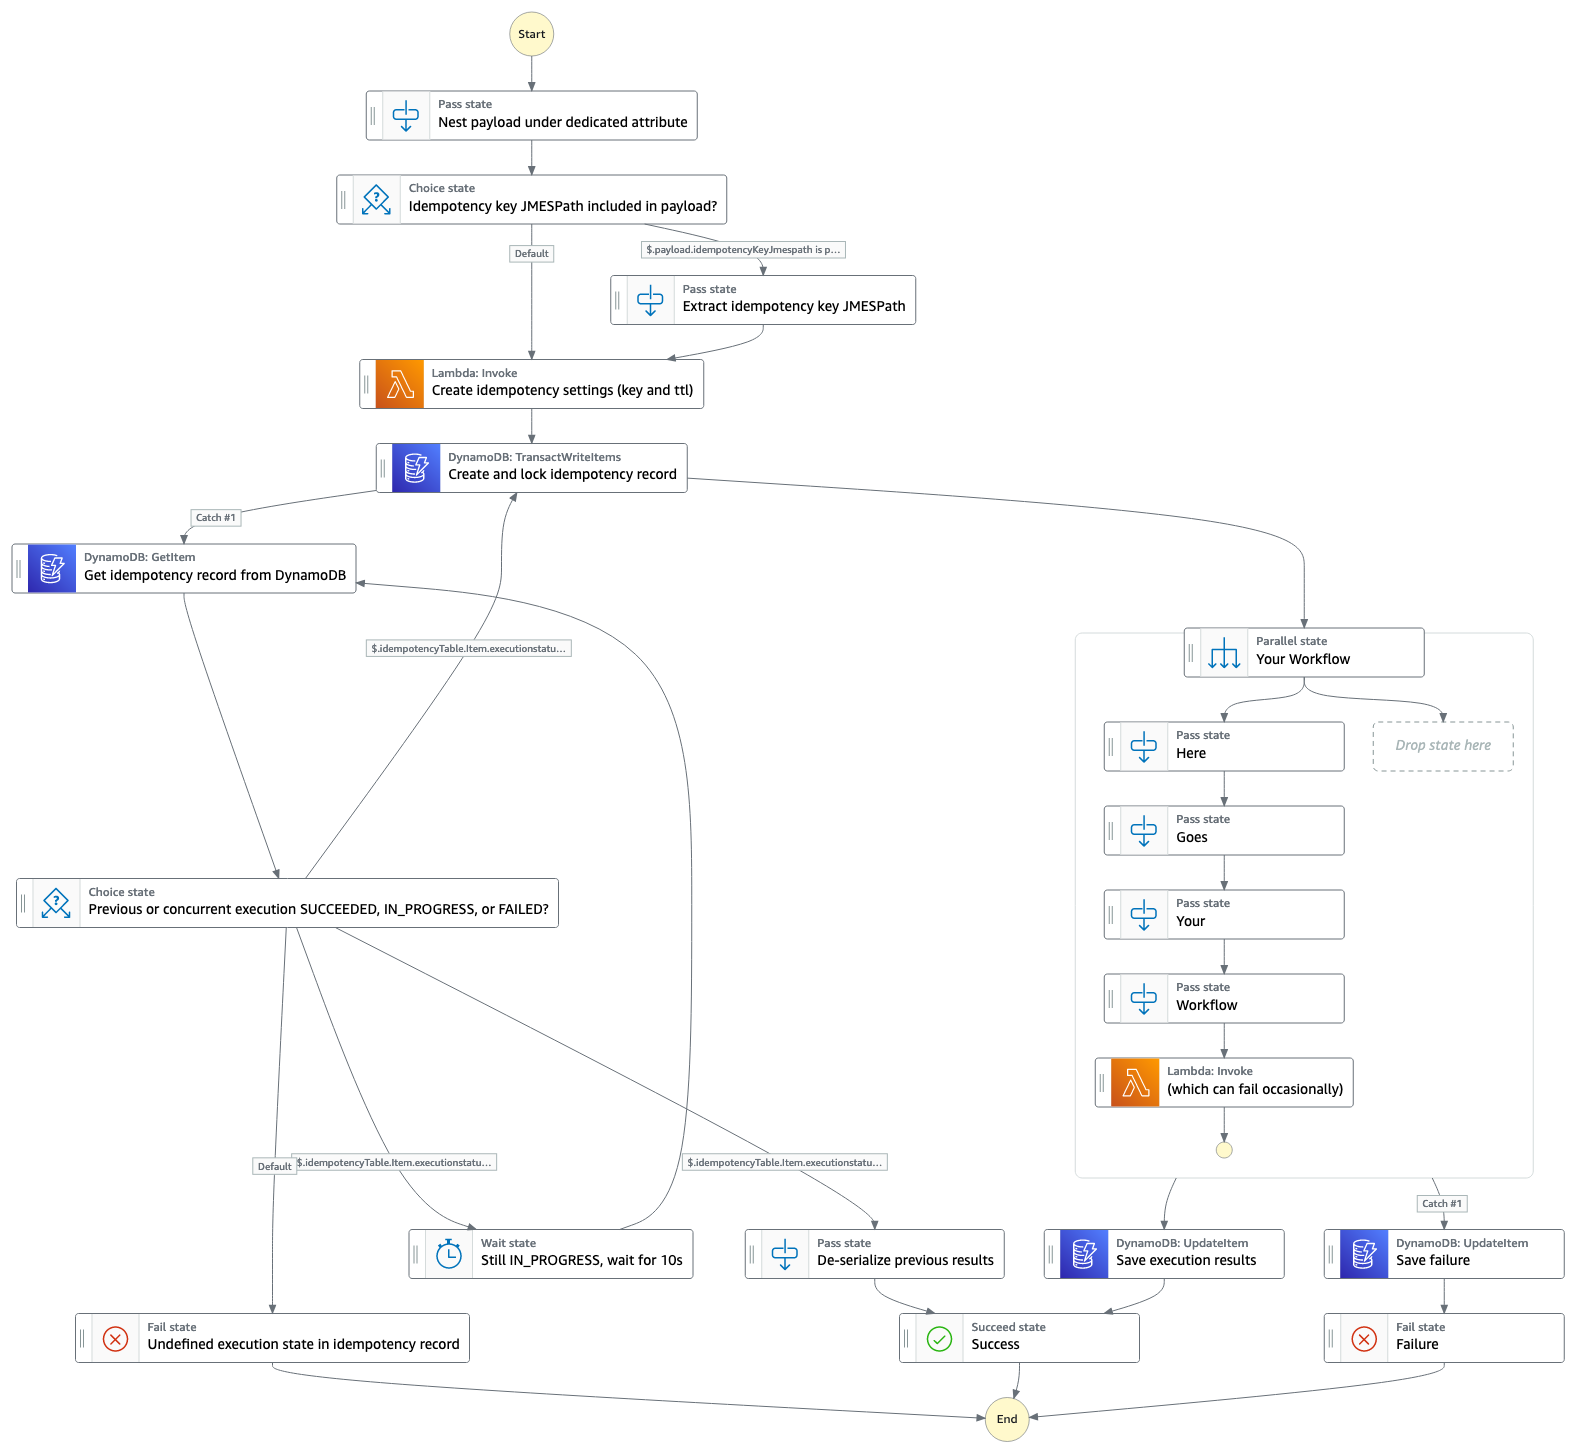
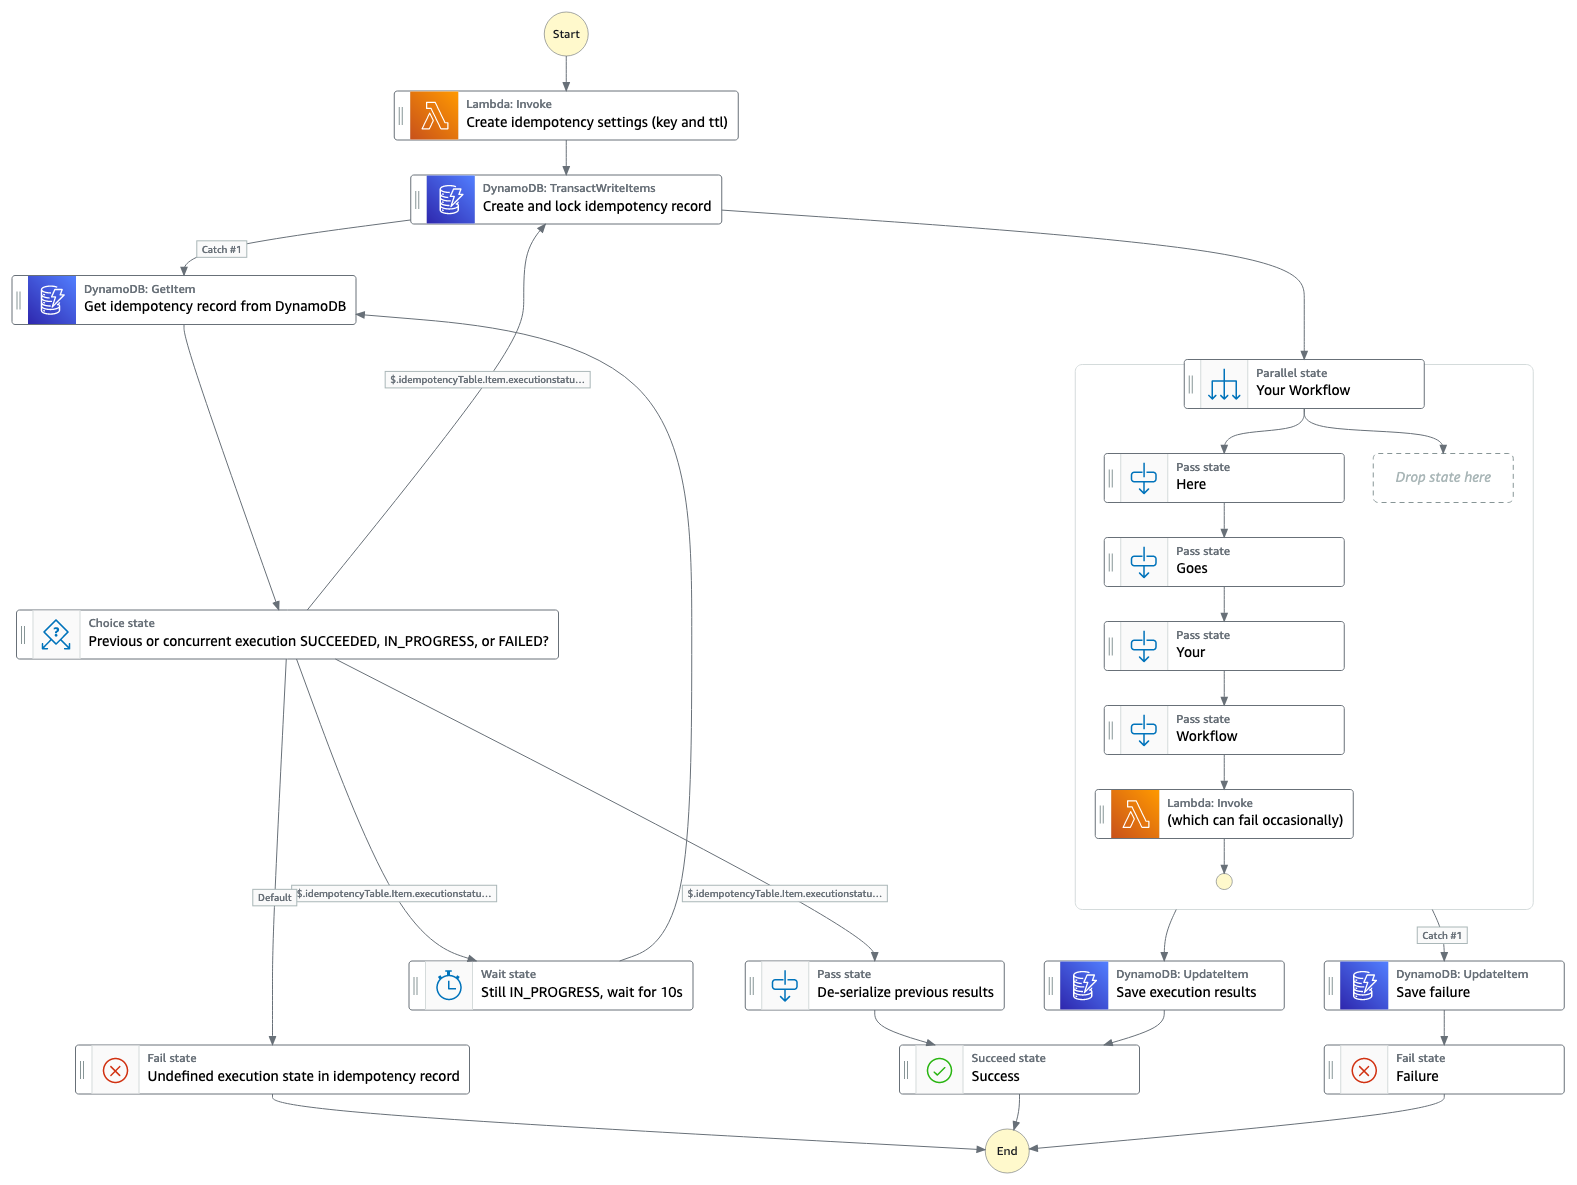
Add retries for all API calls; Consolidate idempotency config stuff

diff --git a/idempotent-workflow/lib/idempotent-workflow.ts b/idempotent-workflow/lib/idempotent-workflow.ts
@@ -16,17 +16,15 @@ export interface IdempotentWorkflowProps {
   workflowSteps: sfn.IChainable & sfn.INextable;
   idempotencyHashFunction?: lambda.IFunction;
   idempotencyTable?: ddb.ITable;
-  express?: boolean,
-  ttlMinutes?: number
+  express?: boolean;
+  ttlMinutes?: number;
 }
 
-const IDEMPOTENCY_KEY_JMESPATH_JSON_PATH = "$.payload.idempotencyKeyJmespath";
-const IDEMPOTENCY_SETTINGS_JSON_PATH = "$.idempotencySettings";
+const IDEMPOTENCY_SETTINGS_JSON_PATH = "$.idempotencyConfig";
 const IDEMPOTENCY_KEY_JSON_PATH = `${IDEMPOTENCY_SETTINGS_JSON_PATH}.idempotencyKey`;
 const IDEMPOTENCY_TTL_JSON_PATH = `${IDEMPOTENCY_SETTINGS_JSON_PATH}.ttl`;
 
 export class IdempotentWorkflow extends Construct {
-
   constructor(scope: Construct, id: string, props: IdempotentWorkflowProps) {
     super(scope, id);
 
@@ -50,7 +48,10 @@ export class IdempotentWorkflow extends Construct {
               ),
             ],
             environment: {
-              IDEMPOTENCY_RECORD_TTL_MINUTES: props.ttlMinutes !== undefined ? props.ttlMinutes.toFixed(0).toString() : "1440", // 24h
+              IDEMPOTENCY_RECORD_TTL_MINUTES:
+                props.ttlMinutes !== undefined
+                  ? props.ttlMinutes.toFixed(0).toString()
+                  : "1440", // 24h
               IDEMPOTENCY_JMESPATH_ATTRIBUTE: "idempotencyKeyJmespath",
             },
           });
@@ -65,48 +66,25 @@ export class IdempotentWorkflow extends Construct {
             encryption: ddb.TableEncryption.DEFAULT,
           });
 
-    const wrap_payload = new sfn.Pass(
-      this,
-      "Nest payload under dedicated attribute",
-      {
-        parameters: {
-          payload: sfn.JsonPath.entirePayload,
-        },
-      }
-    );
-
-    const pullUpJmesPath = new sfn.Pass(
-      this,
-      "Extract idempotency key JMESPath",
-      {
-        parameters: {
-          payload: sfn.JsonPath.objectAt("$.payload"),
-          idempotencyKeyJmespath: sfn.JsonPath.stringAt(
-            IDEMPOTENCY_KEY_JMESPATH_JSON_PATH
-          ),
-        },
-      }
-    );
-
     const createIdempotencyKey = new sfnt.LambdaInvoke(
       this,
       "Create idempotency settings (key and ttl)",
       {
         lambdaFunction: idempotencyFunc,
         payloadResponseOnly: true,
-        resultPath: IDEMPOTENCY_SETTINGS_JSON_PATH,
+        resultPath: "$",
       }
-    );
-
-    const jmesPathChoice = new sfn.Choice(
-      this,
-      "Idempotency key JMESPath included in payload?"
-    )
-      .when(
-        sfn.Condition.isPresent(IDEMPOTENCY_KEY_JMESPATH_JSON_PATH),
-        pullUpJmesPath
-      )
-      .otherwise(createIdempotencyKey);
+    ).addRetry({
+      errors: [
+        "Lambda.ServiceException",
+        "Lambda.AWSLambdaException",
+        "Lambda.SdkClientException",
+        "Lambda.TooManyRequestsException",
+      ],
+      interval: Duration.seconds(3),
+      backoffRate: 2,
+      maxAttempts: 10,
+    });
 
     const getItem = new sfnt.DynamoGetItem(
       this,
@@ -129,7 +107,16 @@ export class IdempotentWorkflow extends Construct {
         table: idempotencyTable,
         resultPath: "$.idempotencyTable",
       }
-    );
+    ).addRetry({
+      errors: [
+        "DynamoDb.ProvisionedThroughputExceededException",
+        "DynamoDb.RequestLimitExceeded",
+        "DynamoDb.ThrottlingException",
+      ],
+      interval: Duration.seconds(3),
+      backoffRate: 2,
+      maxAttempts: 10,
+    });
 
     const extractPreviousResultFromDynamo = new sfn.Pass(
       this,
@@ -191,10 +178,21 @@ export class IdempotentWorkflow extends Construct {
         resultPath: sfn.JsonPath.DISCARD,
         iamResources: [idempotencyTable.tableArn],
       }
-    ).addCatch(getItem, {
-      errors: ["DynamoDb.TransactionCanceledException"],
-      resultPath: "$.errors.lockItem",
-    });
+    )
+      .addRetry({
+        errors: [
+          "DynamoDb.ProvisionedThroughputExceededException",
+          "DynamoDb.RequestLimitExceeded",
+          "DynamoDb.ThrottlingException",
+        ],
+        interval: Duration.seconds(3),
+        backoffRate: 2,
+        maxAttempts: 10,
+      })
+      .addCatch(getItem, {
+        errors: ["DynamoDb.TransactionCanceledException"],
+        resultPath: "$.errors.lockItem",
+      });
 
     const checkForFinishedAndGotResult = new sfn.Choice(
       this,
@@ -256,7 +254,16 @@ export class IdempotentWorkflow extends Construct {
         resultPath: "$.idempotencyTable.updateResult",
         outputPath: "$.results",
       }
-    );
+    ).addRetry({
+      errors: [
+        "DynamoDb.ProvisionedThroughputExceededException",
+        "DynamoDb.RequestLimitExceeded",
+        "DynamoDb.ThrottlingException",
+      ],
+      interval: Duration.seconds(3),
+      backoffRate: 2,
+      maxAttempts: 10,
+    });
 
     const saveFailureToDynamo = new sfnt.DynamoUpdateItem(
       this,
@@ -284,7 +291,16 @@ export class IdempotentWorkflow extends Construct {
         resultPath: "$.idempotencyTable.updateErrorResult",
         outputPath: "$.errors.childworkflow",
       }
-    );
+    ).addRetry({
+      errors: [
+        "DynamoDb.ProvisionedThroughputExceededException",
+        "DynamoDb.RequestLimitExceeded",
+        "DynamoDb.ThrottlingException",
+      ],
+      interval: Duration.seconds(3),
+      backoffRate: 2,
+      maxAttempts: 10,
+    });
 
     const success = new sfn.Succeed(this, "Success");
     const failure = new sfn.Fail(this, "Failure", {
@@ -306,19 +322,20 @@ export class IdempotentWorkflow extends Construct {
         resultPath: "$.errors.childworkflow",
       });
     saveFailureToDynamo.next(failure);
-    pullUpJmesPath
-      .next(createIdempotencyKey)
+
+    delayAndRetryGet.next(getItem).next(checkForFinishedAndGotResult);
+    extractPreviousResultFromDynamo.next(success);
+    const sfn_definition = createIdempotencyKey
       .next(conditionallyLockItem)
       .next(childworkflow)
       .next(saveResultToDynamo)
       .next(success);
-    delayAndRetryGet.next(getItem).next(checkForFinishedAndGotResult);
-    extractPreviousResultFromDynamo.next(success);
-    const sfn_definition = wrap_payload.next(jmesPathChoice);
 
     const statemachine = new sfn.StateMachine(this, "Statemachine", {
       definition: sfn_definition,
-      stateMachineType: props.express ? sfn.StateMachineType.EXPRESS : sfn.StateMachineType.STANDARD
+      stateMachineType: props.express
+        ? sfn.StateMachineType.EXPRESS
+        : sfn.StateMachineType.STANDARD,
     });
 
     idempotencyTable.grantReadWriteData(statemachine);

diff --git a/idempotent-workflow/lambda/idempotency-config/index.py b/idempotent-workflow/lambda/idempotency-config/index.py
@@ -18,11 +18,9 @@ class InvalidJMESPathException(Exception):
     ...
 
 
-def lambda_handler(event, context):
-    payload = event.get("payload", {})
-
+def calculate_hash(event):
     if idempotency_key_jmespath := event.get(IDEMPOTENCY_JMESPATH_ATTRIBUTE, None):
-        idempotency_value = jmespath.search(idempotency_key_jmespath, payload)
+        idempotency_value = jmespath.search(idempotency_key_jmespath, event)
         if idempotency_value[0] is None:
             logger.error(
                 f"JMESPath expression '{IDEMPOTENCY_JMESPATH_ATTRIBUTE}' did not find any matching values",
@@ -39,12 +37,19 @@ def lambda_handler(event, context):
             f"{IDEMPOTENCY_JMESPATH_ATTRIBUTE} not found in event",
             extra={"event": event, "idempotency_jmespath": idempotency_key_jmespath},
         )
-        idempotency_value = payload
+        idempotency_value = event
 
     idempotency_value = json.dumps(idempotency_value)
-    hash = hashlib.sha256(idempotency_value.encode("utf-8")).hexdigest()
+    return (
+        idempotency_key_jmespath,
+        idempotency_value,
+        hashlib.sha256(idempotency_value.encode("utf-8")).hexdigest(),
+    )
 
-    twentyfour_hours_from_now = datetime.now() + timedelta(hours=24)
+
+def lambda_handler(event, context):
+
+    idempotency_key_jmespath, idempotency_value, hash = calculate_hash(event)
 
     logger.info(
         f"Event hashed to {hash}",
@@ -56,7 +61,12 @@ def lambda_handler(event, context):
         },
     )
 
+    twentyfour_hours_from_now = datetime.now() + timedelta(hours=24)
+
     return {
-        "idempotencyKey": hash,
-        "ttl": str(int(twentyfour_hours_from_now.timestamp())),
+        "payload": event,
+        "idempotencyConfig": {
+            "idempotencyKey": hash,
+            "ttl": str(int(twentyfour_hours_from_now.timestamp())),
+        },
     }

diff --git a/idempotent-workflow/README.md b/idempotent-workflow/README.md
@@ -10,6 +10,9 @@ Learn more about this workflow at Step Functions workflows collection: https://s
 
 Important: this application uses various AWS services and there are costs associated with these services after the Free Tier usage - please see the [AWS Pricing page](https://aws.amazon.com/pricing/) for details. You are responsible for any AWS costs incurred. No warranty is implied in this example.
 
+**Important**: The workflow uses DynamoDB to store the results of the actual workflow steps. Therefore, the maximum
+size of the results must not exceed ~399 KB (400 KB is maximum but the workflow stores some metadata too).
+
 ## Requirements
 
 * [Create an AWS account](https://portal.aws.amazon.com/gp/aws/developer/registration/index.html) if you do not already have one and log in. The IAM user that you use must have sufficient permissions to make necessary AWS service calls and manage AWS resources.
@@ -55,7 +58,7 @@ continues as described above, or `FAILED`, in which case the workflow tries to a
 Start the workflow with some test event, e.g.
 ```json
 {
-   "foo": "bar",
+   "top": "level",
    "nested": {
       "key1": "value1",
       "key2": "value2"
@@ -102,12 +105,12 @@ By default the workflow uses the entire input event to calculate the idempotency
 the key should be calculated by passing in a JMESPath expression as part of the event. For example
 ```json
 {
-   "foo": "bar",
+   "top": "level",
    "nested": {
       "key1": "value1",
       "key2": "value2"
    },
-   "idempotencyKeyJmespath": "[nested.key, nested.key2]"
+   "idempotencyKeyJmespath": "[nested.key1, nested.key2]"
 } 
 ```
 uses the values of the two nested attributes to calculate the key.
